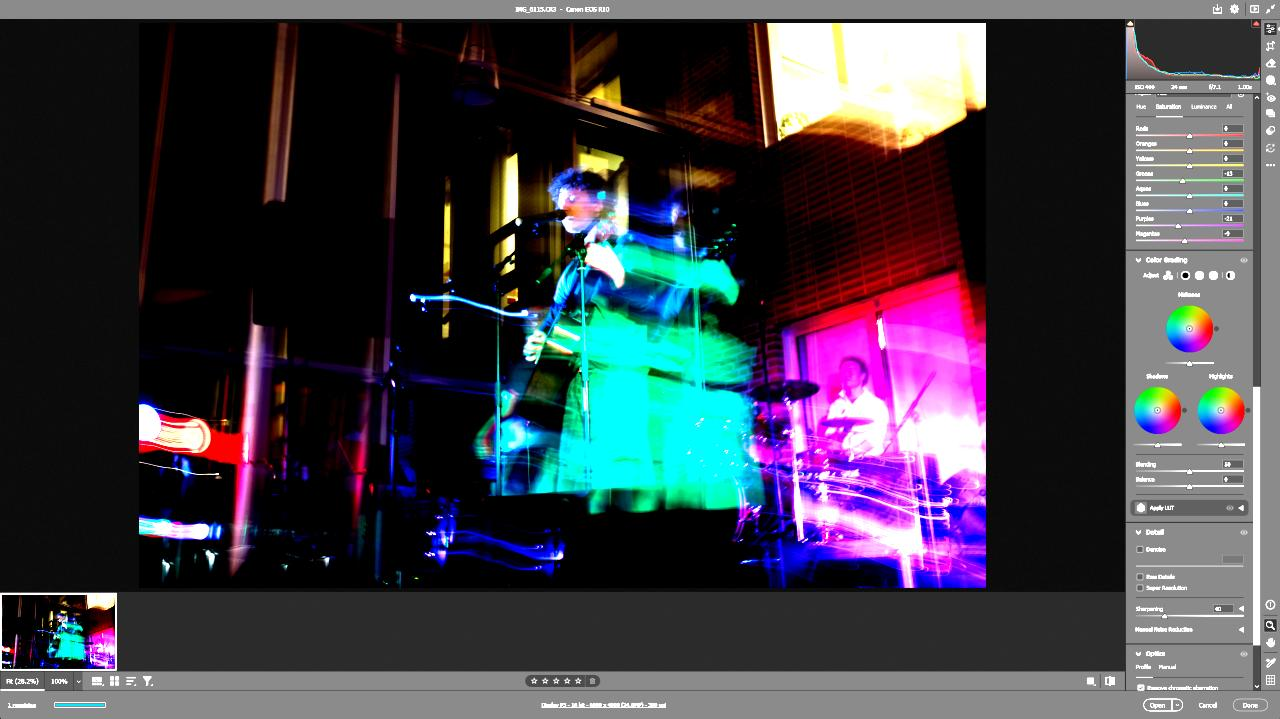
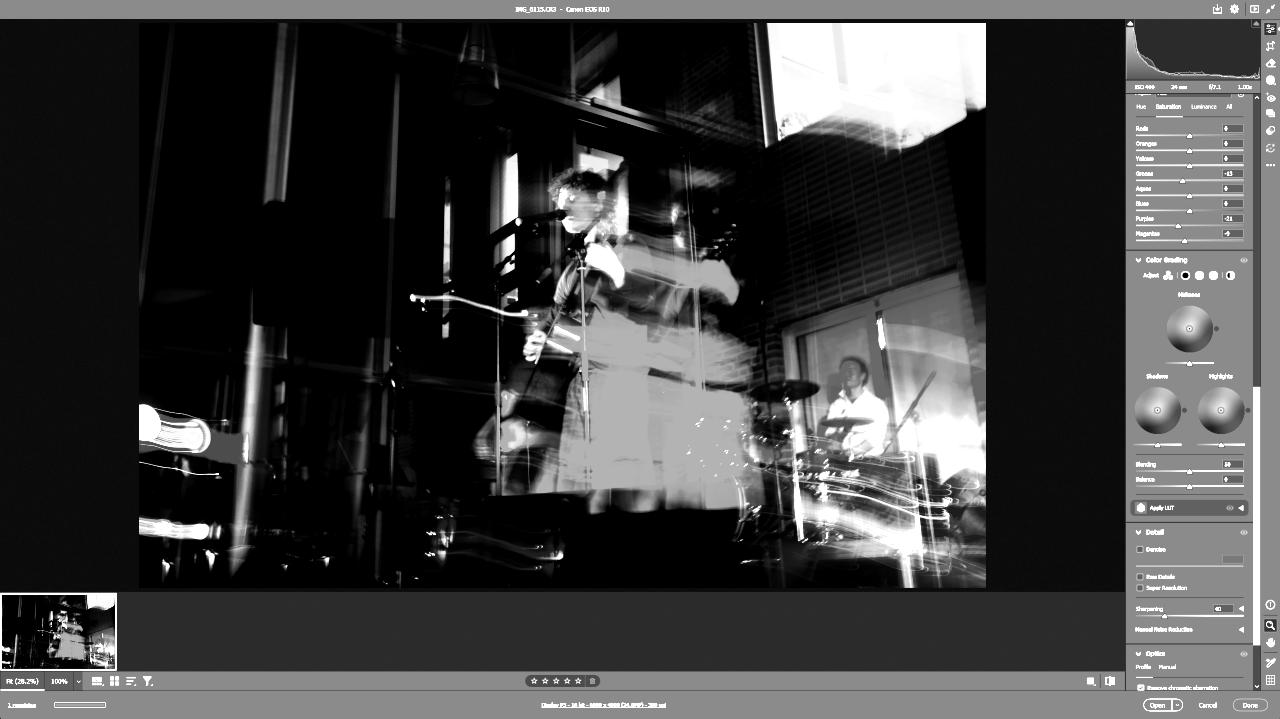
SMÅLAND!!!

diff --git a/flag.py b/flag.py
@@ -1,0 +1,24 @@
+
+
+from PIL import Image, ImageDraw
+
+# RGB-värden för blå och gul
+BLUE = (0, 106, 167)
+YELLOW = (254, 204, 0)
+GREEN = (0, 128, 0)
+RED = (	255, 0, 0)
+WHITE = (255, 255, 255)
+
+# Skapa en ny bild
+im = Image.new("RGB", (160, 100), GREEN)
+
+# Skapa ett ImageDraw-objekt för att kunna rita grafik
+imd = ImageDraw.Draw(im)
+
+# Rita två rektanglar
+imd.rectangle([(45, 0), (75, 100)], WHITE)
+imd.rectangle([(0, 35), (160, 65)], WHITE)
+imd.rectangle([(50, 0), (70, 100)], RED)
+imd.rectangle([(0, 40), (160, 60)], RED)
+
+im.save("flag.png")

diff --git a/main.py b/main.py
@@ -4,4 +4,6 @@ bad_tiger = Image.open("tiger.webp")
 
 tiger = ImageEnhance.Contrast(bad_tiger).enhance(3)
 
+tiger = tiger.convert("L")
+
 tiger.save("tiger.jpg")
